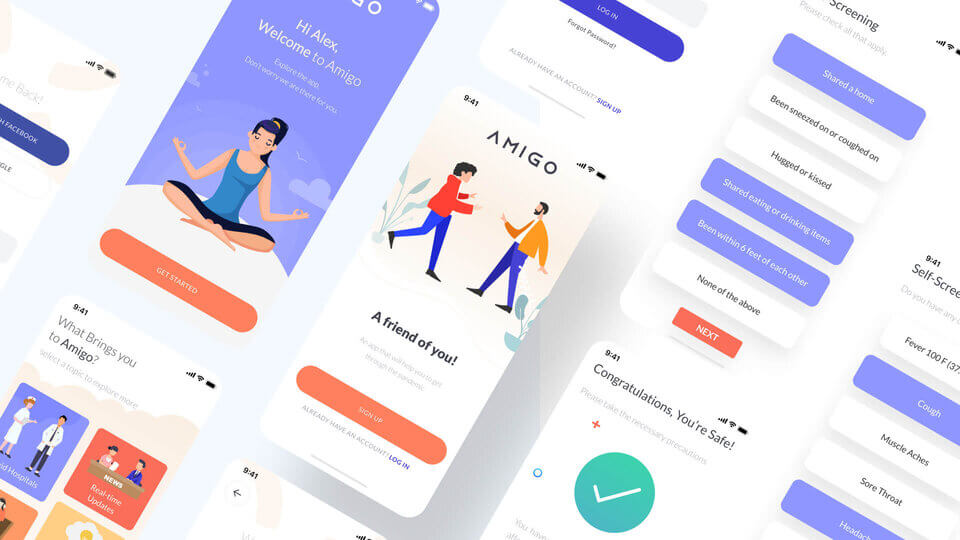
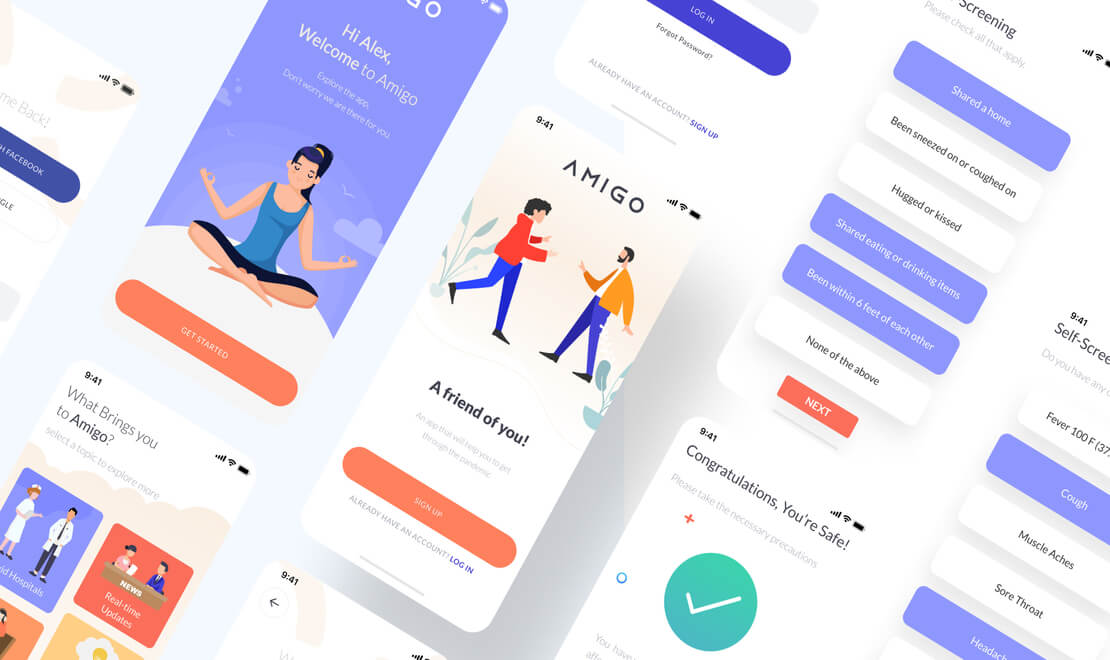
fixed image resolution and performance issues
-resized images to match 370*220
-improved accessibility
-optimised assests based on the chrome lighthouse report

diff --git a/index.html b/index.html
@@ -130,7 +130,7 @@
                                     <i><img src="assets/images/home-feature/ui.png" width="66px" height="66px"
                                             alt=""></i>
                                 </div>
-                                <h5 class="features-title">UI Designing</h5>
+                                <h3 class="features-title">UI Designing</h3>
                                 <p class="pdesk">I love designing as well as redesigning websites, apps and all kinds of
                                     digital products</p>
                                 <p class="pmob">I love designing as well as redesigning websites, mobile apps and all
@@ -147,7 +147,7 @@
                                     <i><img src="assets/images/home-feature/ux.png" width="66px" height="66px"
                                             alt=""></i>
                                 </div>
-                                <h5 class="features-title">UX Consultation</h5>
+                                <h3 class="features-title">UX Consultation</h3>
                                 <p class="pdesk">I love helping out people grow their business by finding their existing
                                     loopholes</p>
                                 <p class="pmob">I help companies in growing their business and reaching their full
@@ -165,7 +165,7 @@
                                     <i><img src="assets/images/home-feature/branding.png" width="52px" height="52px"
                                             alt=""></i>
                                 </div>
-                                <h5 class="features-title">Branding</h5>
+                                <h3 class="features-title">Branding</h3>
                                 <p class="pdesk">I help companies in creating an online presence or increasing their
                                     existing engagement</p>
                                 <p class="pmob">I help companies in creating an online presence or increasing their
@@ -220,11 +220,11 @@
                 <div class="col-lg-4 col-md-6 col-sm-12">
                     <div class="blog-post-thumb">
                         <div class="img" id="proj1">
-                            <img src="assets/images/projects/electroshoe.png" width="370" height="220" alt="">
+                            <img src="assets/images/projects/electroshoe.jpg" width="370" height="220" alt="">
                         </div>
                         <div class="blog-content">
                             <h3>
-                                <a href="#">Electroshoe Fundrasing</a>
+                                <a href="#">Electroshoe Fund-rasing</a>
                             </h3>
                             <div class="text">
                                 Branding and Designing
@@ -296,7 +296,7 @@
                 <div class="col-lg-4 col-md-6 col-sm-12">
                     <div class="blog-post-thumb">
                         <div class="img">
-                            <img src="assets/images/projects/graphic-design.png" width="370" height="220" alt="">
+                            <img src="assets/images/projects/graphic-design.jpg" width="370" height="220" alt="">
                         </div>
                         <div class="blog-content">
                             <h3>
@@ -325,7 +325,7 @@
                     <div class="offset-lg-3 col-lg-6">
                         <div class="info">
                             <h1>The Process</h1>
-                            <p>Although I provide personalised solutions based on the client needs, however having a
+                            <p>Although I provide personalized solutions based on the client needs, however having a
                                 process simplifies the workflow. </p>
                         </div>
                     </div>
@@ -365,7 +365,7 @@
                         <a href="#" class="mini-box">
                             <!-- <i><img src="assets/images/work-process-item-01.png" alt=""></i> -->
                             <strong>5. I Analyse</strong>
-                            <span>Usuability <br>Testing, <br>Audit Reports, <br>Review Metrics</span>
+                            <span>Usability <br>Testing, <br>Audit Reports, <br>Review Metrics</span>
                         </a>
                     </div>
                     <div class="col-lg-2 col-md-3 col-sm-6 col-6">
@@ -439,9 +439,9 @@
                             </i>
                             <p>I am more than satisfied. Amazing work, quick delivery. It fits my needs perfectly and
                                 it's much better than what I was expecting. I would definitely work again with Ayush and
-                                also highly recommed him for anyone looking for a logo designer.</p>
+                                also highly recommend him for anyone looking for a logo designer.</p>
                             <div class="user-image">
-                                <img src="assets/images/testimonials/placeholder.jpg" alt="">
+                                <img src="assets/images/testimonials/placeholder.jpg" alt="" width="60px" height="60px">
                             </div>
                             <div class="team-info">
                                 <h3 class="user-name">Creative Officer</h3>
@@ -669,10 +669,10 @@
                         <p id="opento" style="margin-top: 10px;"">I'm open to collaborations as well as contract.</p>
                         <p id=" download">Download my <strong><a
                                     href="https://www.dropbox.com/s/j6v8yv2q3ca31zh/Designer.pdf?dl=0" class="download"
-                                    style="color:#7e5dea ">Resume</a></strong> and <strong><a
+                                    style="color:#7e5dea" title="Download Resume">Resume</a></strong> and <strong><a
                                     href="https://www.dropbox.com/s/tnm76jdjgimoh4k/Portfolio.pdf?dl=0" class="download"
-                                    style="color:#7e5dea ">Portfolio</a></strong></p>
-                        <p id="aboutme"><a href="#" style="color:#ef488e">Wanna know more about me? <i
+                                    style="color:#7e5dea" title="Download Portfolio">Portfolio</a></strong></p>
+                        <p id="aboutme"><a href="#" style="color:#ef488e" title="About Me">Wanna know more about me? <i
                                     class="fas fa-arrow-right"></i></a></p>
                     </div>
                 </div>
@@ -693,15 +693,17 @@
                     letter-spacing: 0.88px;">Let's stay in touch</p>
                     <br>
                     <ul class="social">
-                        <li><a href="mailto:adamayush@gmail.com" target="_blank"><i class="fas fa-envelope"></i></a>
+                        <li><a href="mailto:adamayush@gmail.com" target="_blank" rel="noopener" title="Email"><i
+                                    class="fas fa-envelope"></i></a>
                         </li>
-                        <li><a href="http://dribbble.com/ayush-chandra" target="_blank"><i
-                                    class="fab fa-dribbble"></i></a></li>
-                        <li><a href="https://www.linkedin.com/in/ayush-chandra/"><i
-                                    class="fab fa-linkedin-in"></i></i></a></li>
-                        <li><a href="https://www.instagram.com/_ayush_chandra_/" target="_blank"><i
-                                    class="fab fa-instagram"></i></a></li>
-                        <li><a href="#" target="_blank"><i class="fab fa-behance"></i></a></li>
+                        <li><a href="https://dribbble.com/ayush-chandra" target="_blank" title="Dribble"
+                                aria-label="Dribble" rel="noopener"><i class="fab fa-dribbble"></i></a></li>
+                        <li><a href="https://www.linkedin.com/in/ayush-chandra/" title="LinkedIn" target="_blank"
+                                aria-label="LinkedIn" rel="noopener"><i class="fab fa-linkedin-in"></i></i></a></li>
+                        <li><a href="https://www.instagram.com/_ayush_chandra_/" target="_blank" rel="noopener"
+                                aria-label="Instagram" title="Instagram"><i class="fab fa-instagram"></i></a></li>
+                        <li><a href="#" target="_blank"><i class="fab fa-behance" title="Behance" target="_blank"
+                                    aria-label="Behance" rel="noopener"></i></a></li>
                     </ul>
                 </div>
             </div>

diff --git a/assets/css/portfolio.css b/assets/css/portfolio.css
@@ -452,7 +452,7 @@ button.main-button:hover {
   background-color: #ff589e;
 }
 
-/*Nav Ba Mobiler*/
+/*Nav Bar Mobile*/
 @media (max-width: 719px) {
   .main-nav {
     background: #ffffff;
@@ -965,21 +965,6 @@ welcome
   }
 }
 
-/*and svg*/
-.andsvg {
-  width: 50px;
-  height: 50px;
-  margin: 1.5% auto;
-}
-
-@media (max-width: 765px) {
-  .andsvg {
-    width: 30px;
-    height: 30px;
-    margin: 1.5% auto;
-  }
-}
-
 /* 
 ---------------------------------------------
 features
@@ -1465,14 +1450,23 @@ team
   margin-top: 25px;
   padding-left: 25px;
   padding-right: 25px;
-  margin-bottom: 25px;
+  margin-bottom: 30px;
   font-weight: 400;
   font-size: 15px;
   color: #707070;
   letter-spacing: 0.6px;
-  line-height: 26px;
+  line-height: 30px;
   transition: all 0.3s;
   transition-delay: 0.15s;
+}
+
+@media (max-width: 480px) {
+  .team-item .team-content p {
+    padding-left: 30px;
+    padding-right: 30px;
+    line-height: 30px;
+    margin-bottom: 35px;
+  }
 }
 
 /* 
@@ -1988,7 +1982,7 @@ a#standard:hover {
  color: #ffffff;
 } */
 
-/*Testimonails Hover*/
+/*Testimonials Hover*/
 
 /*.testi img{
   transition: all 0.3s;
